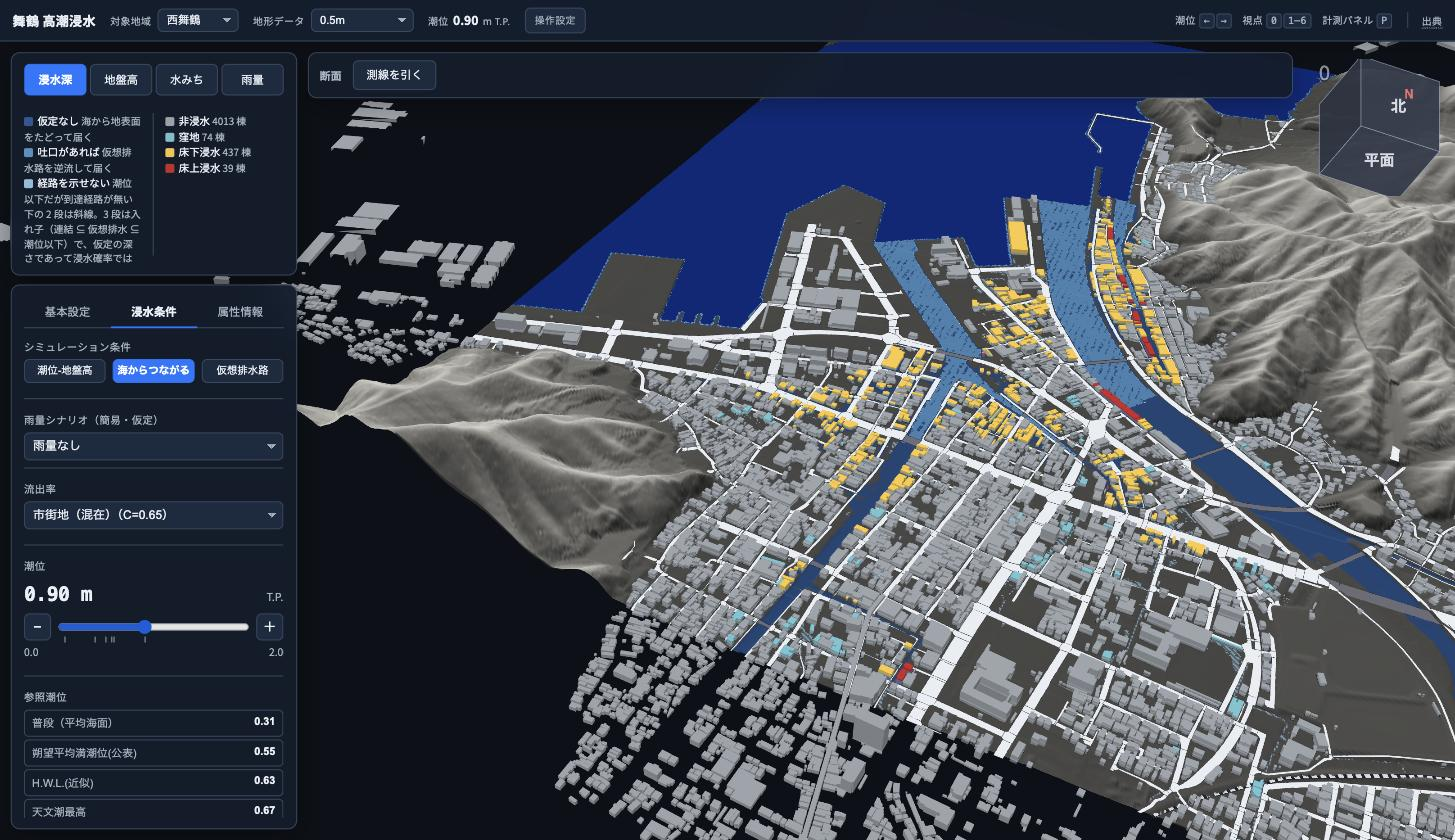
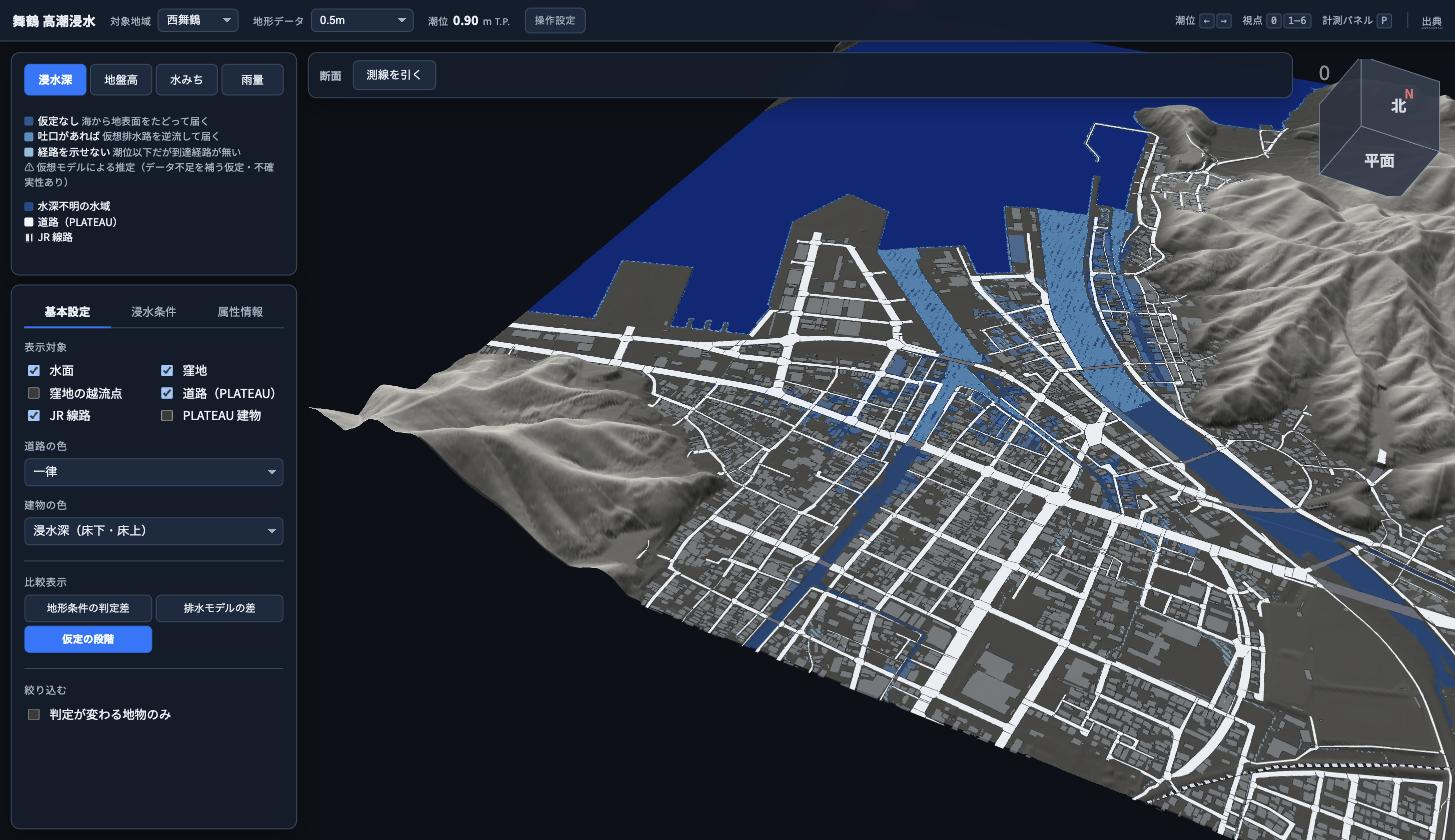
report+viewer: 凡例の説明文をツールチップへ / 出典リンク / 限界を節分け / UI 手順明記
viewer:
- 「仮定の段階」「排水モデルの差」の凡例から長い説明文を削除し、
  モード切替ボタン（#assumbtn / #drainagebtn）の data-tip へ移動
- 仕様 §1 が必須にする仮想モデルの注意書きは 1 行に短縮して凡例に残す

report:
- 付録 D データ出典に出典 URL を追加
- 6.2 既知の限界を主題ごとに節分け（排水・地形データ・潮位・対象範囲・建物・分解能）
- 6.1 に Poulter & Halpin (2008) と NOAA SLR Viewer の参照リンク
- 4.1〜4.4 に「viewer で再現するには」の操作手順を明記
- 4.2 の小見出しを「何と何の比較か」が分かる文言に
- 3.2 に「仮定の段階」ボタンの場所と吉原で出ない理由を追記
- viewer-assumption.jpg を比較表示ボタンが見える構図で撮り直し

Claude-Session: https://claude.ai/code/session_01NRxtV7MrW2u9WxULNW9pSQ

diff --git a/web/src/ui/controls.ts b/web/src/ui/controls.ts
@@ -276,14 +276,18 @@ const isDiff = (s: SurfaceMode) =>
 const isAssumption = (s: SurfaceMode) => s === 'assumption'
 
 /**
- * **仮想排水路が絵に効いているときは必ず出す注意書き。**
- * 吐口の位置・敷高・逆流防止施設の有無は市も把握できておらず
- * （`docs/todo.md` 中 3）、こちらが置いた仮定である。
- * 仕様（`docs/flood_simulation_spec.md` §1）が画面表示を必須にしている
+ * **仮想排水路が絵に効いているときの注意書き。**
+ * 仕様（`docs/flood_simulation_spec.md` §1）が「仮想モデルによる推定／データ不足を
+ * 補う仮定／結果には不確実性がある」の画面表示を必須にしているので凡例に 1 行だけ残す。
+ * 詳細（吐口の位置・敷高・逆流防止施設の有無は未整備でこちらが置いた仮定）は
+ * モード切替ボタン（`#drainagebtn` / `#assumbtn`）のツールチップに置く。
  */
 const SYNTHETIC_NOTE =
-  '<div class="sub">仮想排水路は実在施設ではない。吐口の位置・敷高・'
-  + '逆流防止施設の有無はこちらが置いた仮定</div>'
+  '<div class="sub">⚠ 仮想モデルによる推定（データ不足を補う仮定・不確実性あり）</div>'
+
+/** ↑ の詳細。モード切替ボタンの data-tip に足す */
+const SYNTHETIC_TIP =
+  '吐口の位置・敷高・逆流防止施設の有無は未整備で、こちらが置いた仮定'
 
 /**
  * メニューに出すレイヤ。`flood` / `ground` / `semantics` / `pcCoverage` は出さない。
@@ -407,8 +411,6 @@ function legendHtml(
       + '<span class="sub"> 仮想排水路を逆流して届く</span></div>',
       '<div><i style="background:#8cbddb"></i>経路を示せない'
       + '<span class="sub"> 潮位以下だが到達経路が無い</span></div>',
-      '<div class="sub">下の 2 段は斜線。3 段は入れ子（連結 ⊆ 仮想排水 ⊆ 潮位以下）で、'
-      + '仮定の深さであって浸水確率ではない</div>',
       SYNTHETIC_NOTE)
   } else if (isDiff(s.surface)) {
     if (s.surface === 'diff_drainage') {
@@ -416,7 +418,6 @@ function legendHtml(
         '<div><i style="background:#ed3830"></i>仮想排水モデルでのみ到達</div>',
         '<div><i style="background:#f7d129"></i>地表連結モデルでのみ到達</div>',
         '<div><i style="background:#2a5794"></i>両モデルで到達</div>',
-        '<div class="sub">地形タイルの差分のみ。建物・道路の判定差は未配信</div>',
         SYNTHETIC_NOTE)
     } else {
       rows.push(
@@ -948,10 +949,10 @@ export function renderControls(
                   data-tip="いま見ている地形データと基準（PLATEAU 5m）で、浸水するかどうかの判定が割れる場所を塗り分ける">地形条件の判定差</button>
           <button id="drainagebtn" type="button" aria-pressed="${s.surface === 'diff_drainage'}"
                   ${catalog.terrain.diff_drainage ? '' : 'hidden'}
-                  data-tip="海から地表面をたどって届く浸水と、仮想排水路を逆流して届く浸水の差を塗り分ける">排水モデルの差</button>
+                  data-tip="${escAttr('海から地表面をたどって届く浸水と、仮想排水路を逆流して届く浸水の差を塗り分ける\n地形タイルの差分のみ。建物・道路の判定差は未配信\n' + SYNTHETIC_TIP)}">排水モデルの差</button>
           <button id="assumbtn" type="button" aria-pressed="${s.surface === 'assumption'}"
                   ${catalog.terrain.diff_drainage ? '' : 'hidden'}
-                  data-tip="その土地が浸かると言うのに、どこまで仮定を置いているか（連結 ⊆ 仮想排水 ⊆ 潮位以下）。配信物は増えない"
+                  data-tip="${escAttr('その土地が浸かると言うのに、どこまで仮定を置いているか。連結 ⊆ 仮想排水 ⊆ 潮位以下 の入れ子で、成立した段の数が仮定の深さ（浸水確率ではない）。下の 2 段は斜線。配信物は増えない\n' + SYNTHETIC_TIP)}"
           >仮定の段階</button>
         </div>
 

diff --git a/report/pages/sources.md b/report/pages/sources.md
@@ -6,19 +6,23 @@ title: データ出典
 
 詳細な素性・取得方法は解析リポジトリの `docs/data.md` を参照。
 
-| データ | 内容 | 規模 | 用途 |
-|---|---|---|---|
-| **PLATEAU 建物 LOD1**（舞鶴市 2025 年度） | CityGML `bldg` | 吉原 AOI 内 930 棟 | 地物の識別子・用途/構造の属性・3D 表示 |
-| **PLATEAU 道路** | CityGML `tran` | 吉原 AOI 内 293 本 | 地物の識別子・区間種別（橋梁/高架/トンネルの除外） |
-| **PLATEAU 地形モデル LOD1**（TIN） | CityGML `dem` | 5m 格子相当 | `baseline` 地形 |
-| **京都府 数値標高モデル（DEM）** | 航空レーザ測量（2019〜2023） | 0.5m 格子 | `highres` 地形、`control`（5m に集約） |
-| **地上点群** | バックパック SLAM、LAS 1.4 | 20.0 GB / 約 5 億点（2026-07 取得） | `pointcloud` 地形、表示用 COPC |
-| **気象庁 潮位**（舞鶴） | 推算潮位表（毎時）と観測基準面 | 1 年分 | 潮位スライダの参照水位、潮位再生、基準面 → T.P. 換算 |
-| **国土数値情報 鉄道（N02）** | JR 小浜線・舞鶴線のリンク | 東舞鶴 2.77 km / 西舞鶴 1.27 km | PLATEAU に鉄道が無いため別途取得。市が示した表示範囲の基準線 |
-| **e-Stat 統計 GIS 境界データ** | 2020 年国勢調査 小地域（町丁・字等） | AOI 3 範囲に交差する 162 面 | 小地域ごとの浸水建物集計 |
-| **2020 年国勢調査 小地域 統計表** | 人口・年齢（`T001082` ほか） | — | 任意地点圏域の集計（[付録 E](./other-cities)） |
-| **ジオイド GSIGEO2011** | PROJ network 経由 | AOI で N = 36.955 m | 楕円体高 ↔ 標高（T.P.）の換算 |
-| **高潮被害調査資料**（舞鶴市、非公表） | 2026-07-16 / 2026-08-09 の 2 事象 | 家屋・道路の一覧 | 実測との突き合わせ（[4.1](./results)）。個人名・住所を含むため git 管理外 |
+| データ | 内容 | 規模 | 用途 | 出典 |
+|---|---|---|---|---|
+| **PLATEAU 建物 LOD1**（舞鶴市 2025 年度） | CityGML `bldg` | 吉原 AOI 内 930 棟 | 地物の識別子・用途/構造の属性・3D 表示 | [G空間情報センター](https://www.geospatial.jp/ckan/dataset/plateau-26202-maizuru-shi-2025) ／ [PLATEAU](https://www.mlit.go.jp/plateau/) |
+| **PLATEAU 道路** | CityGML `tran` | 吉原 AOI 内 293 本 | 区間種別（橋梁/高架/トンネルの除外） | 同上 |
+| **PLATEAU 地形モデル LOD1**（TIN） | CityGML `dem` | 5m 格子相当 | `baseline` 地形 | 同上 |
+| **京都府 数値標高モデル（DEM）** | 航空レーザ測量（2019〜2023）、0.5m 格子 | — | `highres` 地形、`control`（5m に集約） | [G空間情報センター](https://www.geospatial.jp/ckan/dataset/dem05_kyoto) |
+| **地上点群** | バックパック SLAM、LAS 1.4 | 20.0 GB / 約 5 億点（2026-07 取得） | `pointcloud` 地形、表示用 COPC | [国土地理院 建甲場（舞鶴）](https://cais.gsi.go.jp/cmdc/center/kenchojo/maizuru/maizuru.html) |
+| **気象庁 推算潮位**（舞鶴 MZ） | 潮汐推算の毎時値 | 1 年分 | 潮位スライダの参照水位、潮位の記録の再生 | [潮位表](https://www.data.jma.go.jp/kaiyou/db/tide/suisan/suisan.php?stn=MZ) ／ [テキスト版](https://www.data.jma.go.jp/kaiyou/data/db/tide/suisan/txt/2026/MZ.txt) |
+| **気象庁 観測潮位**（既往・速報） | 1998-09（既往最高）／2026-08（速報値） | — | 実測 2 事象・既往最高潮位 | [既往（1998-09）](https://www.data.jma.go.jp/kaiyou/data/db/tide/genbo/1998/199809/hry199809MZ.txt) ／ [速報（2026-08）](https://www.data.jma.go.jp/kaiyou/data/db/tide/sokuho/202608/z_hry202608MZ.txt) |
+| **国土数値情報 鉄道（N02）** | JR 小浜線・舞鶴線のリンク | 東舞鶴 2.77 km / 西舞鶴 1.27 km | PLATEAU に鉄道が無いため別途取得 | [国土数値情報 N02](https://nlftp.mlit.go.jp/ksj/gml/datalist/KsjTmplt-N02.html) |
+| **e-Stat 統計 GIS 境界データ** | 2020 年国勢調査 小地域（町丁・字等） | AOI 3 範囲に交差する 162 面 | 小地域ごとの浸水建物集計 | [統計 GIS](https://www.e-stat.go.jp/gis/statmap-search) |
+| **2020 年国勢調査 小地域 統計表** | 人口・年齢（`T001082` ほか） | — | 任意地点圏域の集計（[付録 E](./other-cities)） | [e-Stat（T001082）](https://www.e-stat.go.jp/gis/statmap-search/data?statsId=T001082&code=26&downloadType=2) |
+| **標高成果 2011 → 2024 補正 / ジオイド** | 水準点標高補正パラメータ、GSIGEO2011 | AOI で N = 36.955 m | 楕円体高 ↔ 標高（T.P.）、潮位の世代換算 | [測量成果 2024](https://www.gsi.go.jp/sokuchikijun/hyoko2024rev.html) ／ [補正計算](https://vldb.gsi.go.jp/sokuchi/surveycalc/hyokorev/hyokorev.html) |
+| **京都府 高潮浸水想定区域図** | 910 hPa 想定、基準潮位 T.P.+0.69 m | — | 京都府の想定との対応（未突合） | [京都府 高潮浸水想定](https://www.pref.kyoto.jp/sabo/takashio_shinsui/index.html) ／ [解説 PDF](https://www.pref.kyoto.jp/sabo/takashio_shinsui/documents/takashiokaisetsu.pdf) |
+| **既往最高潮位 T.P.+0.93 m の出典** | 1998-09-22、台風 7 号 | — | 代表水位 | 京都府「丹後沿岸海岸保全基本計画」（原典 気象庁）[PDF](https://www.pref.kyoto.jp/shingikai/kaigan-01/documents/shiryo4.pdf) |
+| **FARR（mite-shiru 社）** | 地表流の集中・窪地構造のロジック | — | 水みち・窪地の焼き込み（[付録 E](./other-cities)） | [FARR](https://mite-shiru.co.jp/farr/) |
+| **高潮被害調査資料**（舞鶴市、非公表） | 2026-07-16 / 2026-08-09 の 2 事象 | 家屋・道路の一覧 | 実測との突き合わせ（[4.1](./results)） | 舞鶴市 危機管理・防災課／消防本部（個人名・住所を含むため git 管理外） |
 
 ## 出典表記
 
